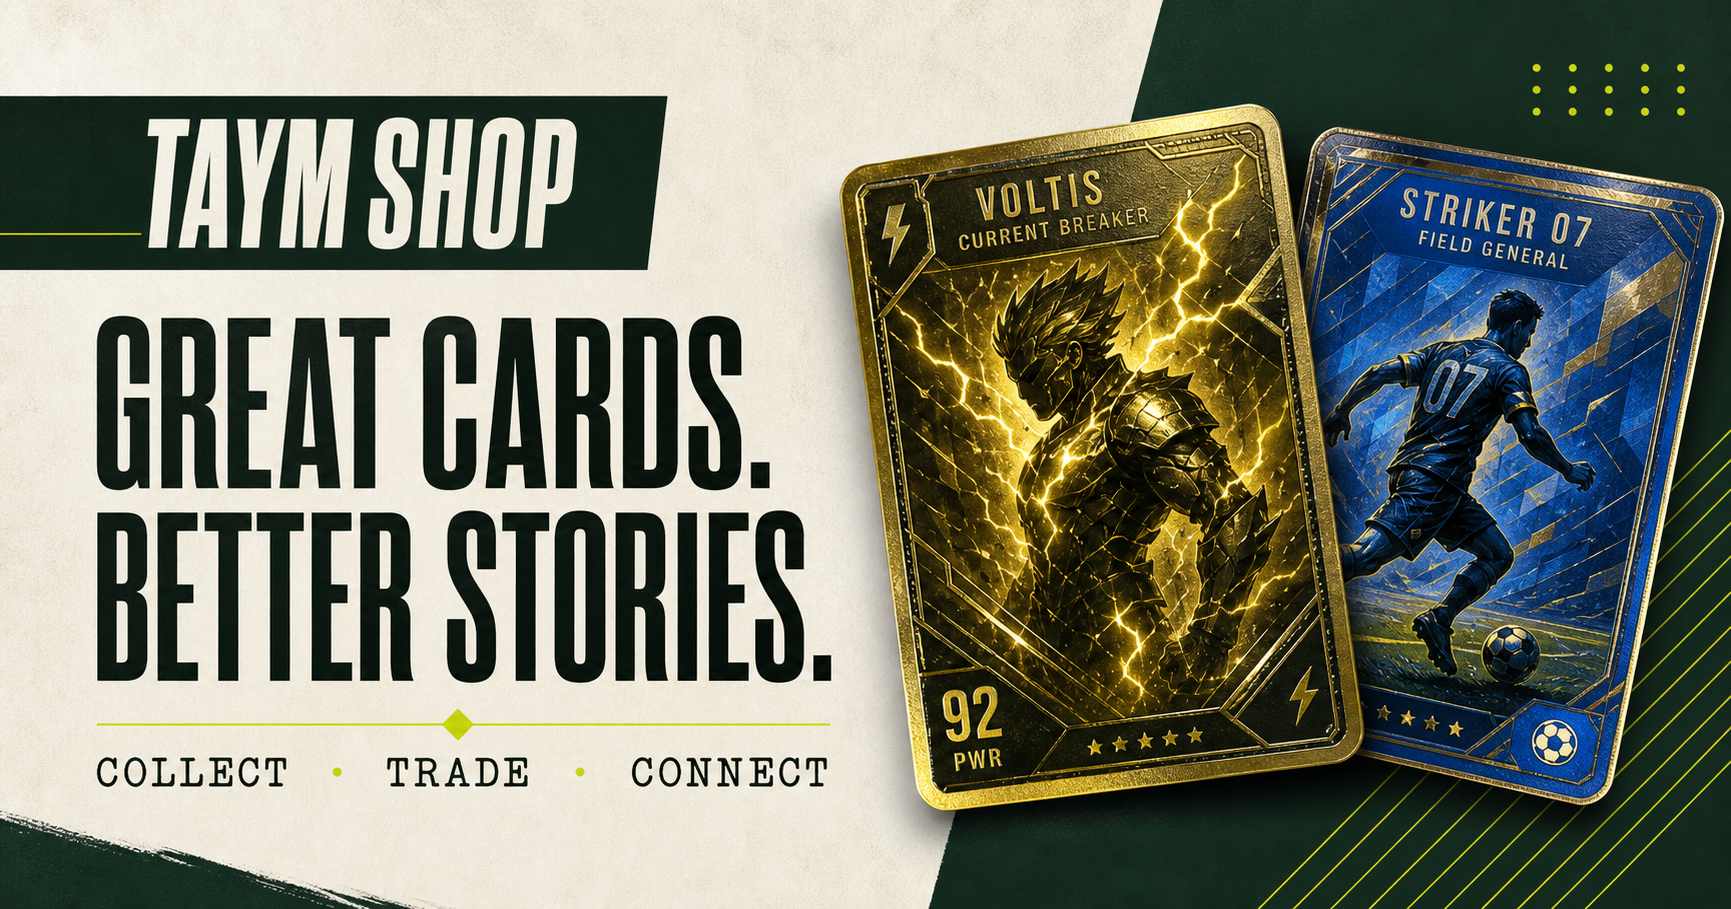
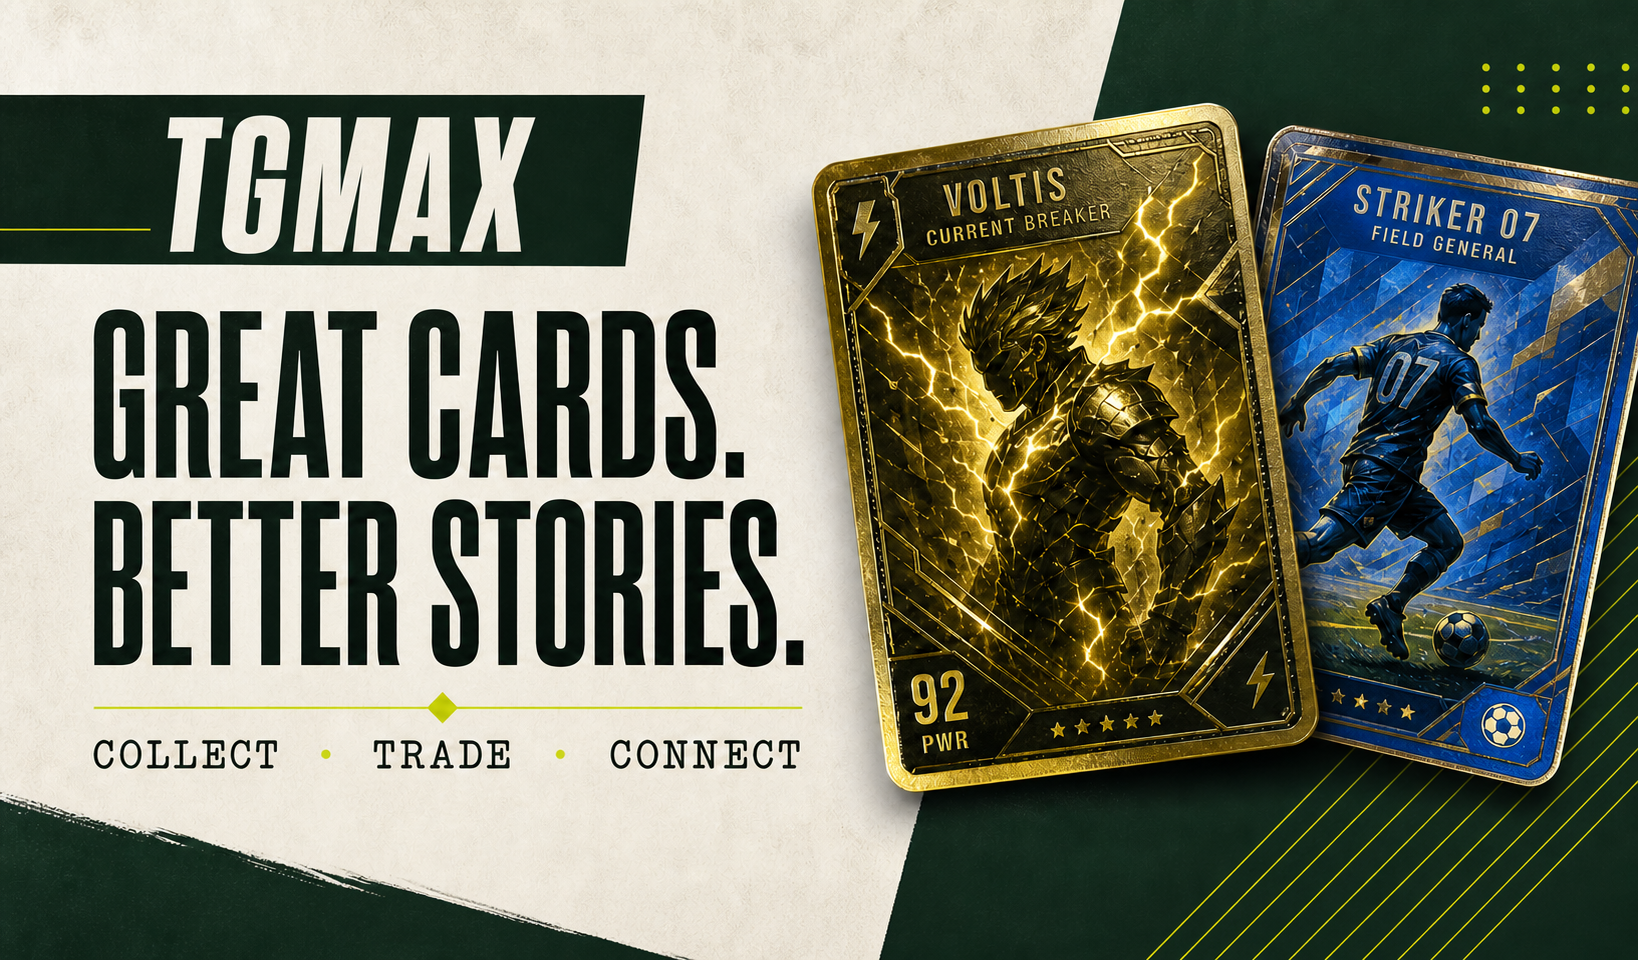
Rebrand trading card shop as TGMAX

diff --git a/app/shop.tsx b/app/shop.tsx
@@ -16,9 +16,9 @@ const products = [
 
 export function Brand() {
   return (
-    <Link className="brand" href="/" aria-label="Taym Shop home">
-      <span className="brand-mark"><span>T</span></span>
-      <span className="brand-name">TAYM <b>SHOP</b></span>
+    <Link className="brand" href="/" aria-label="TGMAX home">
+      <span className="brand-mark"><span>TG</span></span>
+      <span className="brand-name">TG<b>MAX</b></span>
     </Link>
   );
 }
@@ -51,7 +51,7 @@ function CardArt({ item }: { item: (typeof products)[number] }) {
       <div className="orb"><span>{item.icon}</span></div>
       <div className="card-copy">
         <b>{item.series} collector card</b>
-        <small>Premium finish · Taym verified</small>
+        <small>Premium finish · TGMAX verified</small>
       </div>
       <div className="code">{item.code}</div>
     </div>
@@ -105,7 +105,7 @@ export function ShopHome() {
                 <div className="price-row"><strong>${item.price}.00</strong><span>Near mint</span></div>
                 <div className="card-actions">
                   <button onClick={() => setCart([...cart, item.id])}>Add to bag</button>
-                  <a href={whatsapp(`Hi Taym Shop! Is the ${item.title} card still available?`)} target="_blank" rel="noreferrer" aria-label={`Ask about ${item.title} on WhatsApp`}>↗</a>
+                  <a href={whatsapp(`Hi TGMAX! Is the ${item.title} card still available?`)} target="_blank" rel="noreferrer" aria-label={`Ask about ${item.title} on WhatsApp`}>↗</a>
                 </div>
               </div>
             </article>
@@ -115,7 +115,7 @@ export function ShopHome() {
 
       <section className="whatsapp-band">
         <div><span className="wa-icon">◔</span><div><b>Looking for a specific card?</b><p>Send us your list and we’ll help you find it.</p></div></div>
-        <a href={whatsapp("Hi Taym Shop! I’m looking for a specific trading card.")} target="_blank" rel="noreferrer">Chat on WhatsApp →</a>
+        <a href={whatsapp("Hi TGMAX! I’m looking for a specific trading card.")} target="_blank" rel="noreferrer">Chat on WhatsApp →</a>
       </section>
       <Footer />
 
@@ -126,7 +126,7 @@ export function ShopHome() {
           {cart.length === 0 ? <p className="empty">Your bag is waiting for a great card.</p> :
             <div className="bag-list">{cart.map((id, index) => { const p = products.find((x) => x.id === id)!; return <div key={`${id}-${index}`}><span>{p.title}<small>{p.series}</small></span><b>${p.price}</b><button onClick={() => setCart(cart.filter((_, i) => i !== index))}>×</button></div>; })}</div>}
           <div className="bag-total"><span>Total</span><b>${total}.00</b></div>
-          <a className="checkout" href={whatsapp(`Hi Taym Shop! I’d like to order: ${cart.map((id) => products.find((p) => p.id === id)?.title).join(", ")}. Total: $${total}.`)} target="_blank" rel="noreferrer">Order on WhatsApp</a>
+          <a className="checkout" href={whatsapp(`Hi TGMAX! I’d like to order: ${cart.map((id) => products.find((p) => p.id === id)?.title).join(", ")}. Total: $${total}.`)} target="_blank" rel="noreferrer">Order on WhatsApp</a>
         </aside>
       </div>}
     </main>
@@ -134,7 +134,7 @@ export function ShopHome() {
 }
 
 export function Footer() {
-  return <footer><Brand /><p>Trading good cards and great stories.</p><div><a href={whatsapp("Hi Taym Shop!")} target="_blank" rel="noreferrer">WhatsApp</a><Link href="/contact">Contact</Link></div><small>© 2026 Taym Shop. All rights reserved.</small></footer>;
+  return <footer><Brand /><p>Trading good cards and great stories.</p><div><a href={whatsapp("Hi TGMAX!")} target="_blank" rel="noreferrer">WhatsApp</a><Link href="/contact">Contact</Link></div><small>© 2026 TGMAX. All rights reserved.</small></footer>;
 }
 
 export { phone, whatsapp };

diff --git a/app/wanted/page.tsx b/app/wanted/page.tsx
@@ -17,7 +17,7 @@ export default function WantedPage() {
 
   function sendRequest(event: FormEvent<HTMLFormElement>) {
     event.preventDefault();
-    const message = `Hi Taym Shop! I’m looking for a ${category} card: ${cardName}.${details ? ` Details: ${details}` : ""}`;
+    const message = `Hi TGMAX! I’m looking for a ${category} card: ${cardName}.${details ? ` Details: ${details}` : ""}`;
     window.open(whatsapp(message), "_blank", "noopener,noreferrer");
   }
 
@@ -32,7 +32,7 @@ export default function WantedPage() {
       {needs.map(([series, title, details, status, tone]) => <article className={`wanted-card ${tone}`} key={title}>
         <span className="series">{series}</span><div className="wanted-symbol">◎</div>
         <h2>{title}</h2><p>{details}</p><span className="status">{status}</span>
-        <a href={whatsapp(`Hi Taym Shop! I have ${title}. I can send photos and details.`)} target="_blank" rel="noreferrer">I have this card →</a>
+        <a href={whatsapp(`Hi TGMAX! I have ${title}. I can send photos and details.`)} target="_blank" rel="noreferrer">I have this card →</a>
       </article>)}
     </section>
     <section className="card-request">
@@ -57,7 +57,7 @@ export default function WantedPage() {
         <small>This opens WhatsApp with your request ready to send.</small>
       </form>
     </section>
-    <section className="sell-cta"><div><span className="kicker">Not on the list?</span><h2>Show us what you have.</h2><p>Send photos of your cards on WhatsApp and we’ll get back to you with an offer.</p></div><a href={whatsapp("Hi Taym Shop! I have some cards I’d like to sell or trade.")} target="_blank" rel="noreferrer">Send your cards →</a></section>
+    <section className="sell-cta"><div><span className="kicker">Not on the list?</span><h2>Show us what you have.</h2><p>Send photos of your cards on WhatsApp and we’ll get back to you with an offer.</p></div><a href={whatsapp("Hi TGMAX! I have some cards I’d like to sell or trade.")} target="_blank" rel="noreferrer">Send your cards →</a></section>
     <Footer />
   </main>;
 }

diff --git a/app/contact/page.tsx b/app/contact/page.tsx
@@ -9,15 +9,15 @@ export default function ContactPage() {
       <div className="contact-copy">
         <span className="kicker">Let’s talk cards</span>
         <h1>Questions, trades,<br /><em>or a card hunt?</em></h1>
-        <p>We’re always happy to help. WhatsApp is the quickest way to reach Taym Shop.</p>
+        <p>We’re always happy to help. WhatsApp is the quickest way to reach TGMAX.</p>
         <div className="contact-list">
-          <a href={whatsapp("Hi Taym Shop! I have a question.")} target="_blank" rel="noreferrer"><span>◔</span><div><small>WhatsApp</small><b>+961 71 234 567</b></div><i>→</i></a>
+          <a href={whatsapp("Hi TGMAX! I have a question.")} target="_blank" rel="noreferrer"><span>◔</span><div><small>WhatsApp</small><b>+961 71 234 567</b></div><i>→</i></a>
           <div><span>⌖</span><div><small>Based in</small><b>Beirut, Lebanon</b></div></div>
           <div><span>◷</span><div><small>Reply time</small><b>Usually within an hour</b></div></div>
         </div>
       </div>
       <div className="contact-card">
-        <div className="contact-card-top"><span>T</span><div><b>TAYM SHOP</b><small>Collect · Trade · Connect</small></div></div>
+        <div className="contact-card-top"><span>TG</span><div><b>TGMAX</b><small>Collect · Trade · Connect</small></div></div>
         <h2>What can we help with?</h2>
         <div className="topic-list">
           <a href={whatsapp("Hi! I want to buy a card.")} target="_blank" rel="noreferrer"><b>Buy a card</b><span>Check availability and order →</span></a>

diff --git a/app/layout.tsx b/app/layout.tsx
@@ -6,17 +6,17 @@ const geist = Geist({ variable: "--font-geist", subsets: ["latin"] });
 const mono = Geist_Mono({ variable: "--font-mono", subsets: ["latin"] });
 
 export const metadata: Metadata = {
-  title: "Taym Shop — Collect. Trade. Connect.",
+  title: "TGMAX — Collect. Trade. Connect.",
   description: "Trading cards in Beirut: Pokémon, FIFA, Yu-Gi-Oh!, One Piece and more.",
   openGraph: {
-    title: "Taym Shop — Great cards. Better stories.",
-    description: "Collect, trade, and connect with Taym Shop in Beirut.",
-    images: [{ url: "/og.png", width: 1200, height: 630, alt: "Taym Shop trading cards" }],
+    title: "TGMAX — Great cards. Better stories.",
+    description: "Collect, trade, and connect with TGMAX in Beirut.",
+    images: [{ url: "/og.png", width: 1200, height: 630, alt: "TGMAX trading cards" }],
   },
   twitter: {
     card: "summary_large_image",
-    title: "Taym Shop — Great cards. Better stories.",
-    description: "Collect, trade, and connect with Taym Shop in Beirut.",
+    title: "TGMAX — Great cards. Better stories.",
+    description: "Collect, trade, and connect with TGMAX in Beirut.",
     images: ["/og.png"],
   },
 };
